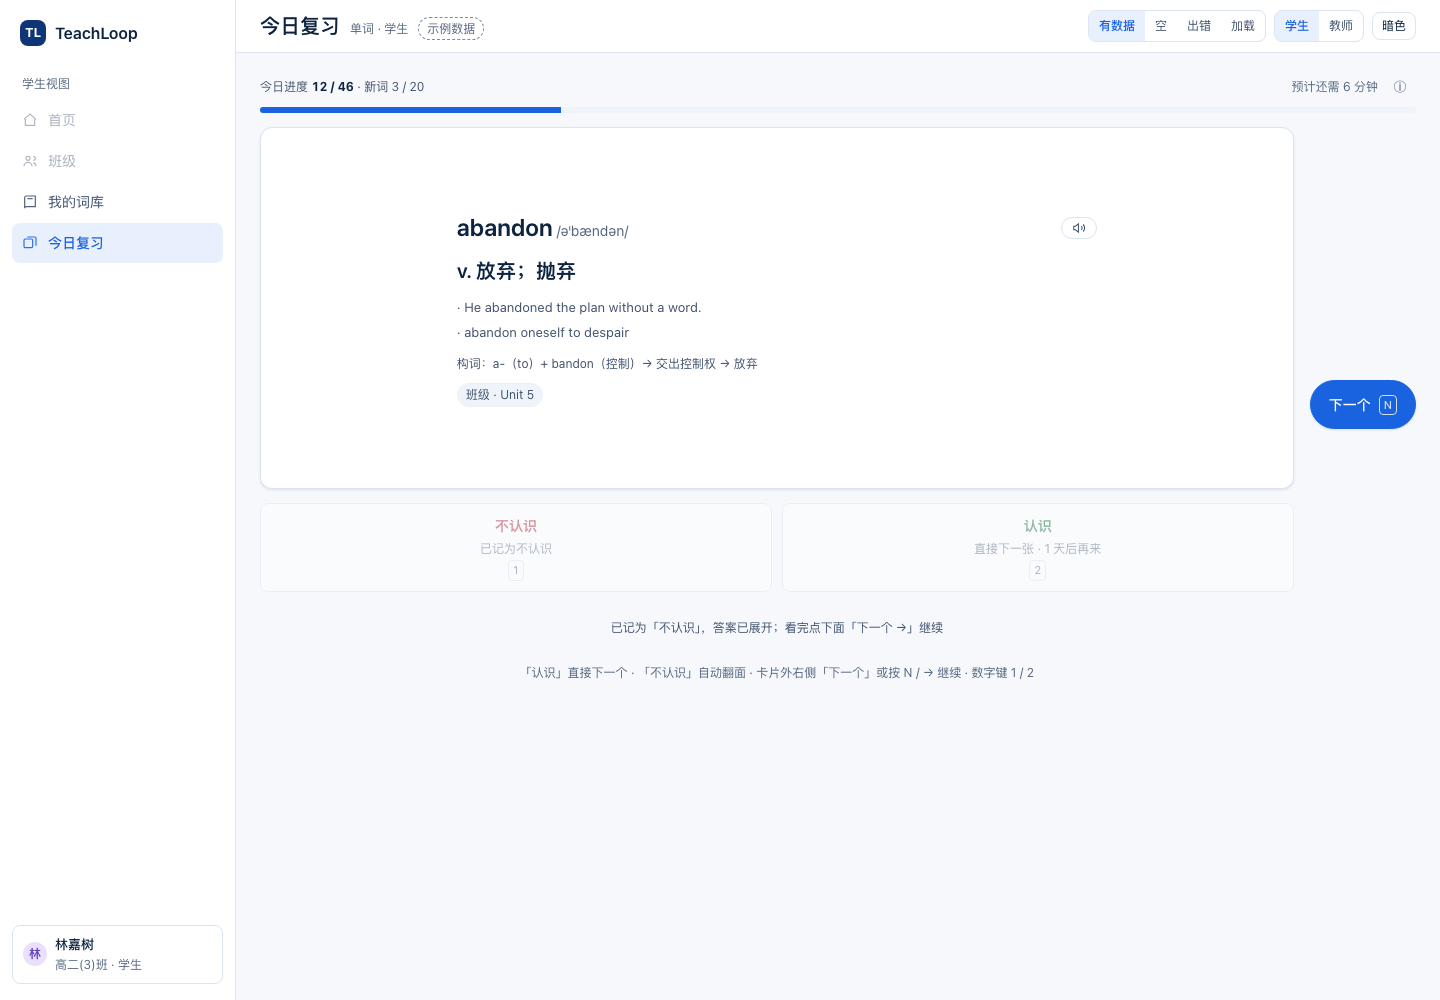
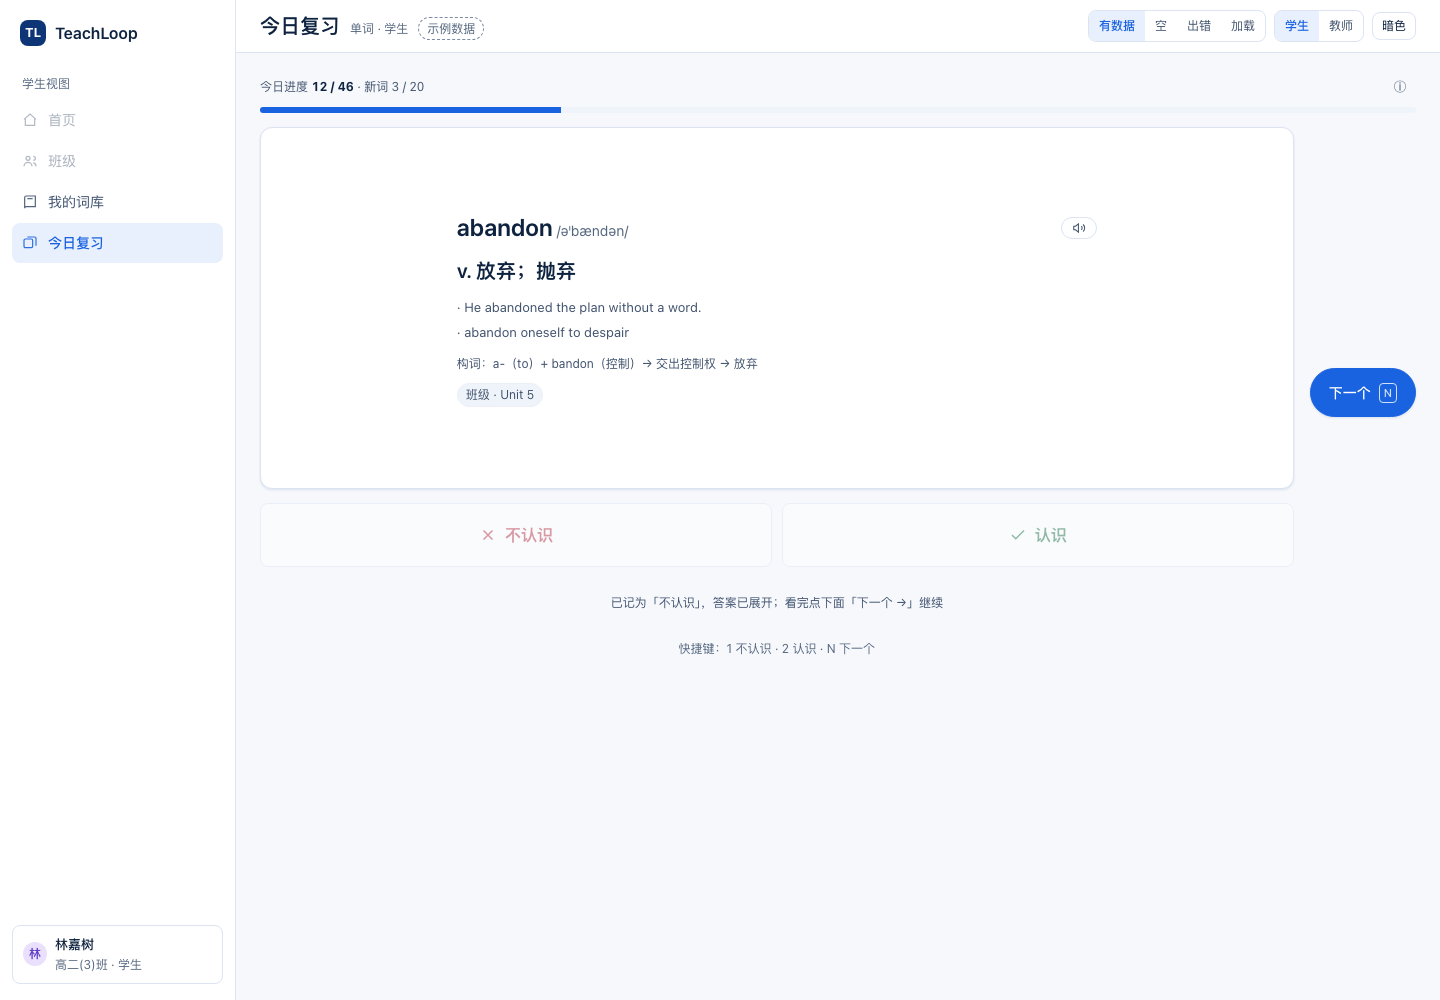
docs(vocab): 复习页去噪——按钮只留字+图标，删掉「预计还需 N 分钟」
用户反馈：
- 两个评分按钮上的「翻面看答案 · 5 分钟后再来」与 1/2 键帽都去掉，只留「不认识 / 认识」+ 小图标
- 「预计还需 6 分钟」是实现时自己加的估算，需求里没有，删掉
- 快捷键提示压成按钮下方一行

spec：AC-53.2 改为「按钮只放文字+图标」；AC-52.2 补「不显示时间估算」；新增 §24。

diff --git a/docs/mock/vocab-2026-10-23/index.html b/docs/mock/vocab-2026-10-23/index.html
@@ -156,6 +156,10 @@
   .rates { display:grid; grid-template-columns:repeat(4,1fr); gap:10px; margin-top:14px; }
   .rate { padding:10px 8px; border-radius:var(--radius-sm); border:1px solid var(--line); background:var(--panel);
           display:flex; flex-direction:column; align-items:center; gap:2px; }
+  .rate.lg { flex-direction:row; justify-content:center; gap:8px; padding:18px 12px; }
+  .rate.lg .n { font-size:16px; font-weight:600; }
+  .rate.again.lg svg { color:var(--red); }
+  .rate.good.lg svg { color:var(--green); }
   .rate:hover { border-color:var(--line-strong); }
   .rate .n { font-weight:600; font-size:14px; }
   .rate .d { font-size:12px; color:var(--muted-2); }
@@ -830,8 +834,7 @@ function screenReview(){
           ? `<span class="sm muted">自由复习 <b class="mono" style="color:var(--text)">${S.freeIdx} / ${S.freeTotal}</b> · 已标熟悉 ${S.freeKnown}</span>
              <span class="sm muted-2">随时可停 · 进度会保留</span>`
           : `<span class="sm muted">今日进度 <b class="mono" style="color:var(--text)">12 / 46</b> · 新词 3 / 20</span>
-             <span class="row" style="gap:6px"><span class="sm muted-2">预计还需 6 分钟</span>
-          <button class="btn ghost sm" title="这一轮在复习什么" onclick="S.info=!S.info;render()">ⓘ</button></span>`}
+             <span class="row" style="gap:6px"><button class="btn ghost sm" title="这一轮在复习什么" onclick="S.info=!S.info;render()">ⓘ</button></span>`}
       </div>
       <div class="progress" style="margin-bottom:14px"><i style="width:26%"></i></div>
       ${S.info?`<div class="card card-pad" style="margin-bottom:12px;border-left:3px solid var(--accent)">
@@ -843,15 +846,17 @@ function screenReview(){
         <div class="review-main">
           <div class="card">${S.flipped?back:front}</div>
           <div class="rates" style="grid-template-columns:repeat(2,1fr)">
-        <button class="rate again" ${S.rated?'disabled style="opacity:.45"':''} onclick="rate('again')">
-          <span class="n">不认识</span><span class="d">${S.rated==='again'?'已记为不认识':'翻面看答案 · 5 分钟后再来'}</span><span class="kbd">1</span></button>
-        <button class="rate good" ${S.rated?'disabled style="opacity:.45"':''} onclick="rate('good')">
-          <span class="n">认识</span><span class="d">${S.rated==='good'?'已记为认识':'直接下一张 · 1 天后再来'}</span><span class="kbd">2</span></button>
+        <button class="rate again lg" ${S.rated?'disabled style="opacity:.45"':''} onclick="rate('again')">
+          <svg width="18" height="18" viewBox="0 0 24 24" fill="none" stroke="currentColor" stroke-width="2"><path d="M6 6l12 12M18 6L6 18"/></svg>
+          <span class="n">不认识</span></button>
+        <button class="rate good lg" ${S.rated?'disabled style="opacity:.45"':''} onclick="rate('good')">
+          <svg width="18" height="18" viewBox="0 0 24 24" fill="none" stroke="currentColor" stroke-width="2"><path d="M4 12l5 5L20 6"/></svg>
+          <span class="n">认识</span></button>
       </div>
       ${S.rated==='again'?`<div class="card-pad sm" style="margin-top:10px;text-align:center;color:var(--muted)">
         已记为「不认识」，答案已展开；看完点下面「下一个 →」继续</div>`:''}
 
-          <div class="hint">「认识」直接下一个 · 「不认识」自动翻面 · 卡片外右侧「下一个」或按 N / → 继续 · 数字键 1 / 2${S.free?" · S 移出复习":""}</div>
+          <div class="hint">快捷键：1 不认识 · 2 认识 · N 下一个${S.free?" · S 暂停复习":""}</div>
           ${S.free?`<div class="row" style="justify-content:center;margin-top:8px">
             <button class="btn" onclick="markKnown(currentWord().w);toast('已移出复习')">移出复习（S）</button>
             <button class="btn" onclick="endFree()">结束复习</button>

diff --git a/specs/004-vocab/spec.md b/specs/004-vocab/spec.md
@@ -111,7 +111,7 @@
 ### US-52 今日复习队列
 
 - [ ] AC-52.1 队列 = 到期时间 ≤ 当前时间 的词，按到期时间升序；可按卡组视图或来源收窄。
-- [ ] AC-52.2 队列页显示三个数并写字面口径：今日已复习 N 张（今天已评分的次数）、剩余待复习 M 张（今天到期且已到时间）、本次新卡 K 张（今天首次进队列）。**这三个数与「评分会改变什么」这类说明性内容不占页面版面**，收进进度条旁的 ⓘ 气泡，点开才显示。
+- [ ] AC-52.2 队列页显示三个数并写字面口径：今日已复习 N 张（今天已评分的次数）、剩余待复习 M 张（今天到期且已到时间）、本次新卡 K 张（今天首次进队列）。**这三个数与「评分会改变什么」这类说明性内容不占页面版面**，收进进度条旁的 ⓘ 气泡，点开才显示。**页面上不显示「预计还需 N 分钟」这类估算**（2026-10-23 用户明确：没提过这个需求）。
 - [ ] AC-52.3 每日新卡上限默认 **20**，由 `teachloop.vocab.review.daily-new-cards` 配置；超出部分次日再进队列，并显示「今天的新卡已用完」。
 - [ ] AC-52.4 到期卡不限量，但单次最多加载 100 张，滚动到末尾自动加载更多。
 - [ ] AC-52.5 空队列有明确空态「今天没有要复习的卡」，并给「去词库加词」入口。
@@ -120,7 +120,7 @@
 ### US-53 两档评分与间隔调度
 
 - [ ] AC-53.1 复习页正面显示单词与发音；翻面（点击卡片或空格）后显示释义、例句、构词分析。
-- [ ] AC-53.2 只有**两个**评分按钮：**不认识 / 认识**，每个都显示下次间隔（如「5 分钟后再来」「1 天后再来」）；键盘 `1` / `2` 等价。按钮**任何时候都可点**（不必先翻面）。
+- [ ] AC-53.2 只有**两个**评分按钮：**不认识 / 认识**。按钮上**只放文字（可配一个小图标），不显示下次间隔、不显示快捷键角标**（2026-10-23 用户要求去掉这些解释性文字）；快捷键 `1` / `2` 等价，提示放在按钮下方一行。按钮**任何时候都可点**（不必先翻面）。
   - 点「**认识**」→ 记录「良好」并**立即进入下一个词**；
   - 点「**不认识**」→ 记录「忘记」并**自动把卡片翻面**（展示释义、例句、构词），**停在当前词**，由用户看完后点「下一个 →」继续；
   - 同一张卡**只能评一次**：评过之后两个按钮置灰，直到切到下一张；
@@ -586,3 +586,13 @@
 | 复习页两个评分按钮要和卡片对齐 | 评分按钮与提示包进卡片同宽的列，卡片右侧的「下一个」独立在列外 |
 | 系统里没有班级的「年级」层级 | 发词页去掉年级分组，改为平铺 chips + 搜索 + 全选/清空 |
 | 编辑页去掉「这个词集的去向」卡片 | 改为单栏；「导入单词 / 加词」移到表单下方，右侧加「取消 / 保存」，取消返回词集列表 |
+
+
+## 24. 复习页去噪（2026-10-23）
+
+| 元素 | 处理 |
+| :--- | :--- |
+| 按钮上的「5 分钟后再来 / 1 天后再来」 | 去掉——按钮只留「不认识 / 认识」，加一个 ✕ / ✓ 小图标 |
+| 按钮上的 `1` / `2` 键帽 | 去掉；快捷键改成按钮下方一行小字 |
+| 「预计还需 6 分钟」 | **去掉**——这是实现时自己加的估算，需求里没有 |
+| ⓘ 气泡 | 保留（用户之前要求把说明性内容收进气泡） |

diff --git a/docs/mock/vocab-2026-10-23/README.md b/docs/mock/vocab-2026-10-23/README.md
@@ -4,6 +4,12 @@
 单文件、无依赖、无构建：**双击 `index.html` 就能点**。
 
 
+## 第十四版（复习页去噪）
+
+- 评分按钮只留「✕ 不认识 / ✓ 认识」，去掉下次间隔说明与 1/2 键帽
+- 去掉「预计还需 6 分钟」（实现时自己加的，需求里没有）
+- 快捷键提示压缩成按钮下方一行
+
 ## 第十三版（对齐、去掉年级分组、编辑页单栏）
 
 - 复习页：评分按钮与卡片同宽对齐；「下一个」仍在卡片外的右侧
